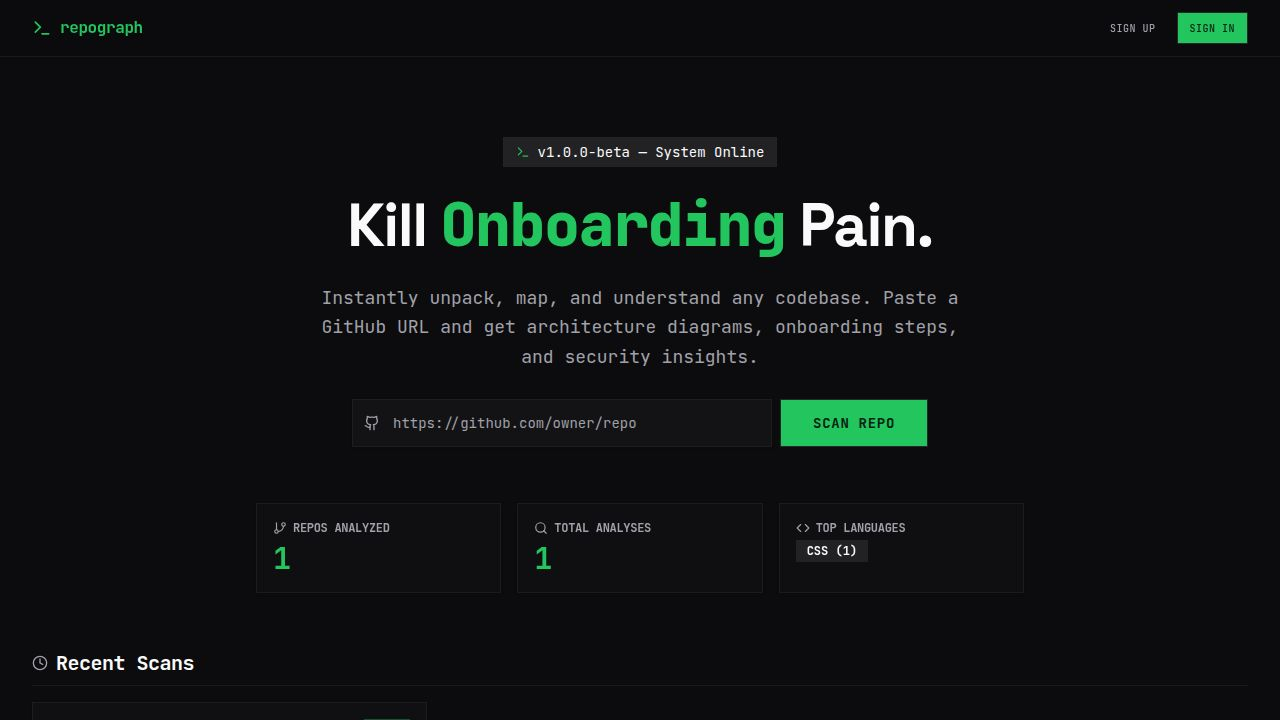
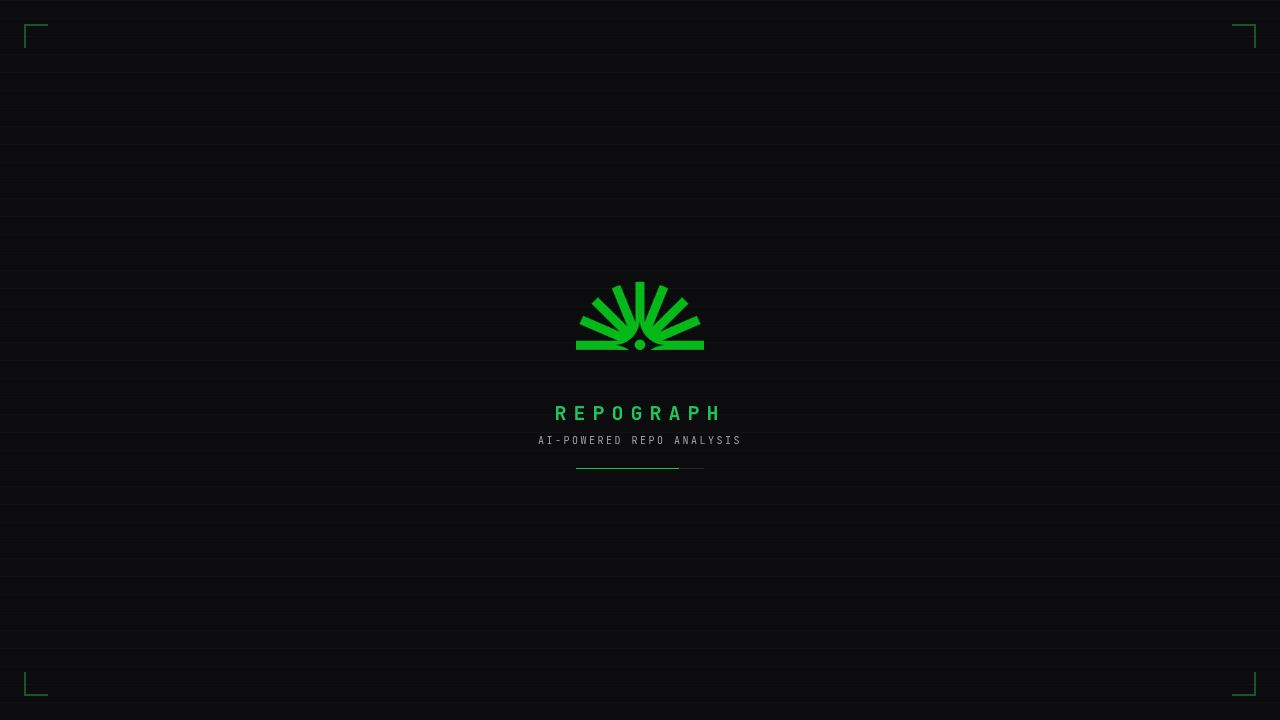
Fix authentication by correctly verifying user tokens
Update API server to pre-fetch and use Clerk JWKS for token verification.

Replit-Commit-Author: Agent
Replit-Commit-Session-Id: 3cb63a72-99fb-4bb9-bbe2-da05723a480d
Replit-Commit-Checkpoint-Type: full_checkpoint
Replit-Commit-Event-Id: 7a446801-84ce-4741-8240-b60508f328b4
Replit-Commit-Screenshot-Url: https://storage.googleapis.com/screenshot-production-us-central1/f3eb556f-5502-4d76-bb56-72ac4928437c/3cb63a72-99fb-4bb9-bbe2-da05723a480d/DY1wPi6
Replit-Helium-Checkpoint-Created: true

diff --git a/artifacts/api-server/src/app.ts b/artifacts/api-server/src/app.ts
@@ -3,6 +3,7 @@ import cors from "cors";
 import pinoHttp from "pino-http";
 import { clerkMiddleware } from "@clerk/express";
 import { publishableKeyFromHost } from "@clerk/shared/keys";
+import { createPublicKey } from "crypto";
 import router from "./routes";
 import { logger } from "./lib/logger";
 import {
@@ -10,6 +11,65 @@ import {
   clerkProxyMiddleware,
   getClerkProxyHost,
 } from "./middlewares/clerkProxyMiddleware";
+
+// ---------------------------------------------------------------------------
+// Resolve the frontend's Clerk instance public key.
+//
+// VITE_CLERK_PUBLISHABLE_KEY and CLERK_PUBLISHABLE_KEY can be set to different
+// Clerk apps in Replit. We always derive the signing-key material from the
+// same instance that issued the session tokens (i.e. the frontend instance)
+// so that Bearer-token verification succeeds.
+//
+// Clerk's backend SDK fetches JWKS from <fapi>/v1/jwks, but development
+// instances expose it at <fapi>/.well-known/jwks.json instead.  We pre-fetch
+// at startup, convert the first JWK to PEM, and supply it as `jwtKey` so no
+// network round-trip is needed per-request and the wrong path is never hit.
+// ---------------------------------------------------------------------------
+
+const frontendPublishableKey =
+  process.env.VITE_CLERK_PUBLISHABLE_KEY ?? process.env.CLERK_PUBLISHABLE_KEY;
+
+async function loadClerkJwtKey(): Promise<string | undefined> {
+  if (!frontendPublishableKey) return undefined;
+
+  try {
+    const base64Part = frontendPublishableKey.replace(/^pk_(test|live)_/, "");
+    const fapiDomain = Buffer.from(base64Part, "base64")
+      .toString()
+      .replace(/\$$/, "");
+
+    const url = `https://${fapiDomain}/.well-known/jwks.json`;
+    const res = await fetch(url);
+    if (!res.ok) {
+      logger.warn({ status: res.status, url }, "Clerk JWKS fetch failed");
+      return undefined;
+    }
+
+    const jwks = (await res.json()) as { keys: object[] };
+    if (!Array.isArray(jwks.keys) || jwks.keys.length === 0) {
+      logger.warn("Clerk JWKS response contained no keys");
+      return undefined;
+    }
+
+    // eslint-disable-next-line @typescript-eslint/no-explicit-any
+    const pem = createPublicKey({ key: jwks.keys[0] as any, format: "jwk" }).export({
+      type: "spki",
+      format: "pem",
+    }) as string;
+
+    logger.info({ fapiDomain }, "Clerk JWT key loaded from JWKS");
+    return pem;
+  } catch (err) {
+    logger.error({ err }, "Failed to load Clerk JWKS");
+    return undefined;
+  }
+}
+
+const clerkJwtKey = await loadClerkJwtKey();
+
+// ---------------------------------------------------------------------------
+// Express app
+// ---------------------------------------------------------------------------
 
 const app: Express = express();
 
@@ -43,8 +103,10 @@ app.use(
   clerkMiddleware((req) => ({
     publishableKey: publishableKeyFromHost(
       getClerkProxyHost(req) ?? "",
-      process.env.CLERK_PUBLISHABLE_KEY,
+      frontendPublishableKey,
     ),
+    secretKey: process.env.CLERK_SECRET_KEY,
+    jwtKey: clerkJwtKey,
   })),
 );
 

diff --git a/replit.md b/replit.md
@@ -45,4 +45,18 @@ AI-powered codebase intelligence tool. Users paste a GitHub URL and get:
 - `pnpm --filter @workspace/db run push` — push DB schema changes (dev only)
 - `pnpm --filter @workspace/api-server run dev` — run API server locally
 
+## Auth Architecture
+
+**Clerk auth** powers user identity. Two env vars may differ across Replit Clerk integrations:
+- `VITE_CLERK_PUBLISHABLE_KEY` — the frontend's Clerk instance (`ready-magpie-15`). Tokens are issued by this instance.
+- `CLERK_PUBLISHABLE_KEY` / `CLERK_SECRET_KEY` — may point to a different instance; not used for token verification.
+
+**API server token verification** (`artifacts/api-server/src/app.ts`):
+- At startup, fetches JWKS from `https://<fapi>/.well-known/jwks.json` (development instances expose it here, not at `/v1/jwks`)
+- Converts the first JWK to PEM using Node's `crypto.createPublicKey`
+- Passes it as `jwtKey` to `clerkMiddleware` — bypasses any network call at request time
+- Frontend sends `Authorization: Bearer <session-token>` via `ClerkAuthTokenRegistrar` in `App.tsx`
+
+**Per-user data isolation**: `repos` table has `userId TEXT NOT NULL` column. All CRUD routes call `getAuth(req)` and scope queries by `userId`.
+
 See the `pnpm-workspace` skill for workspace structure, TypeScript setup, and package details.